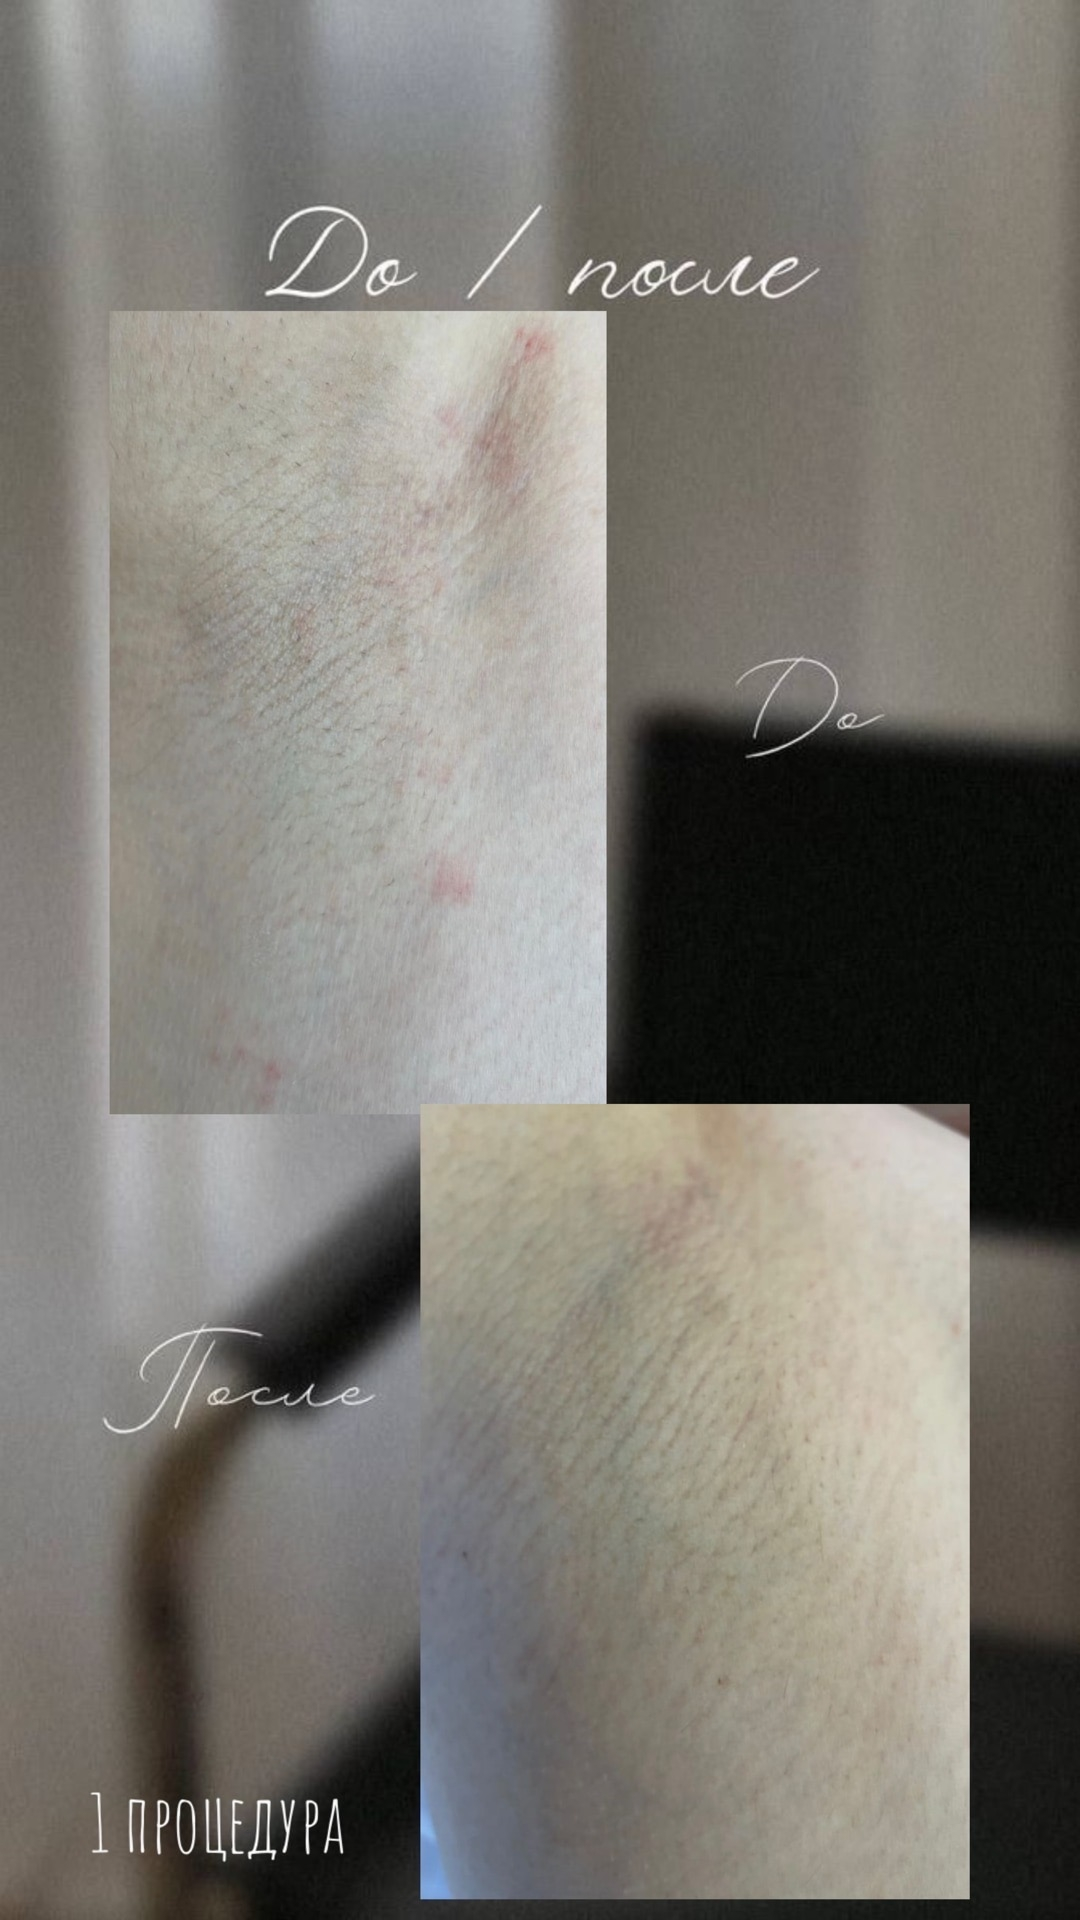
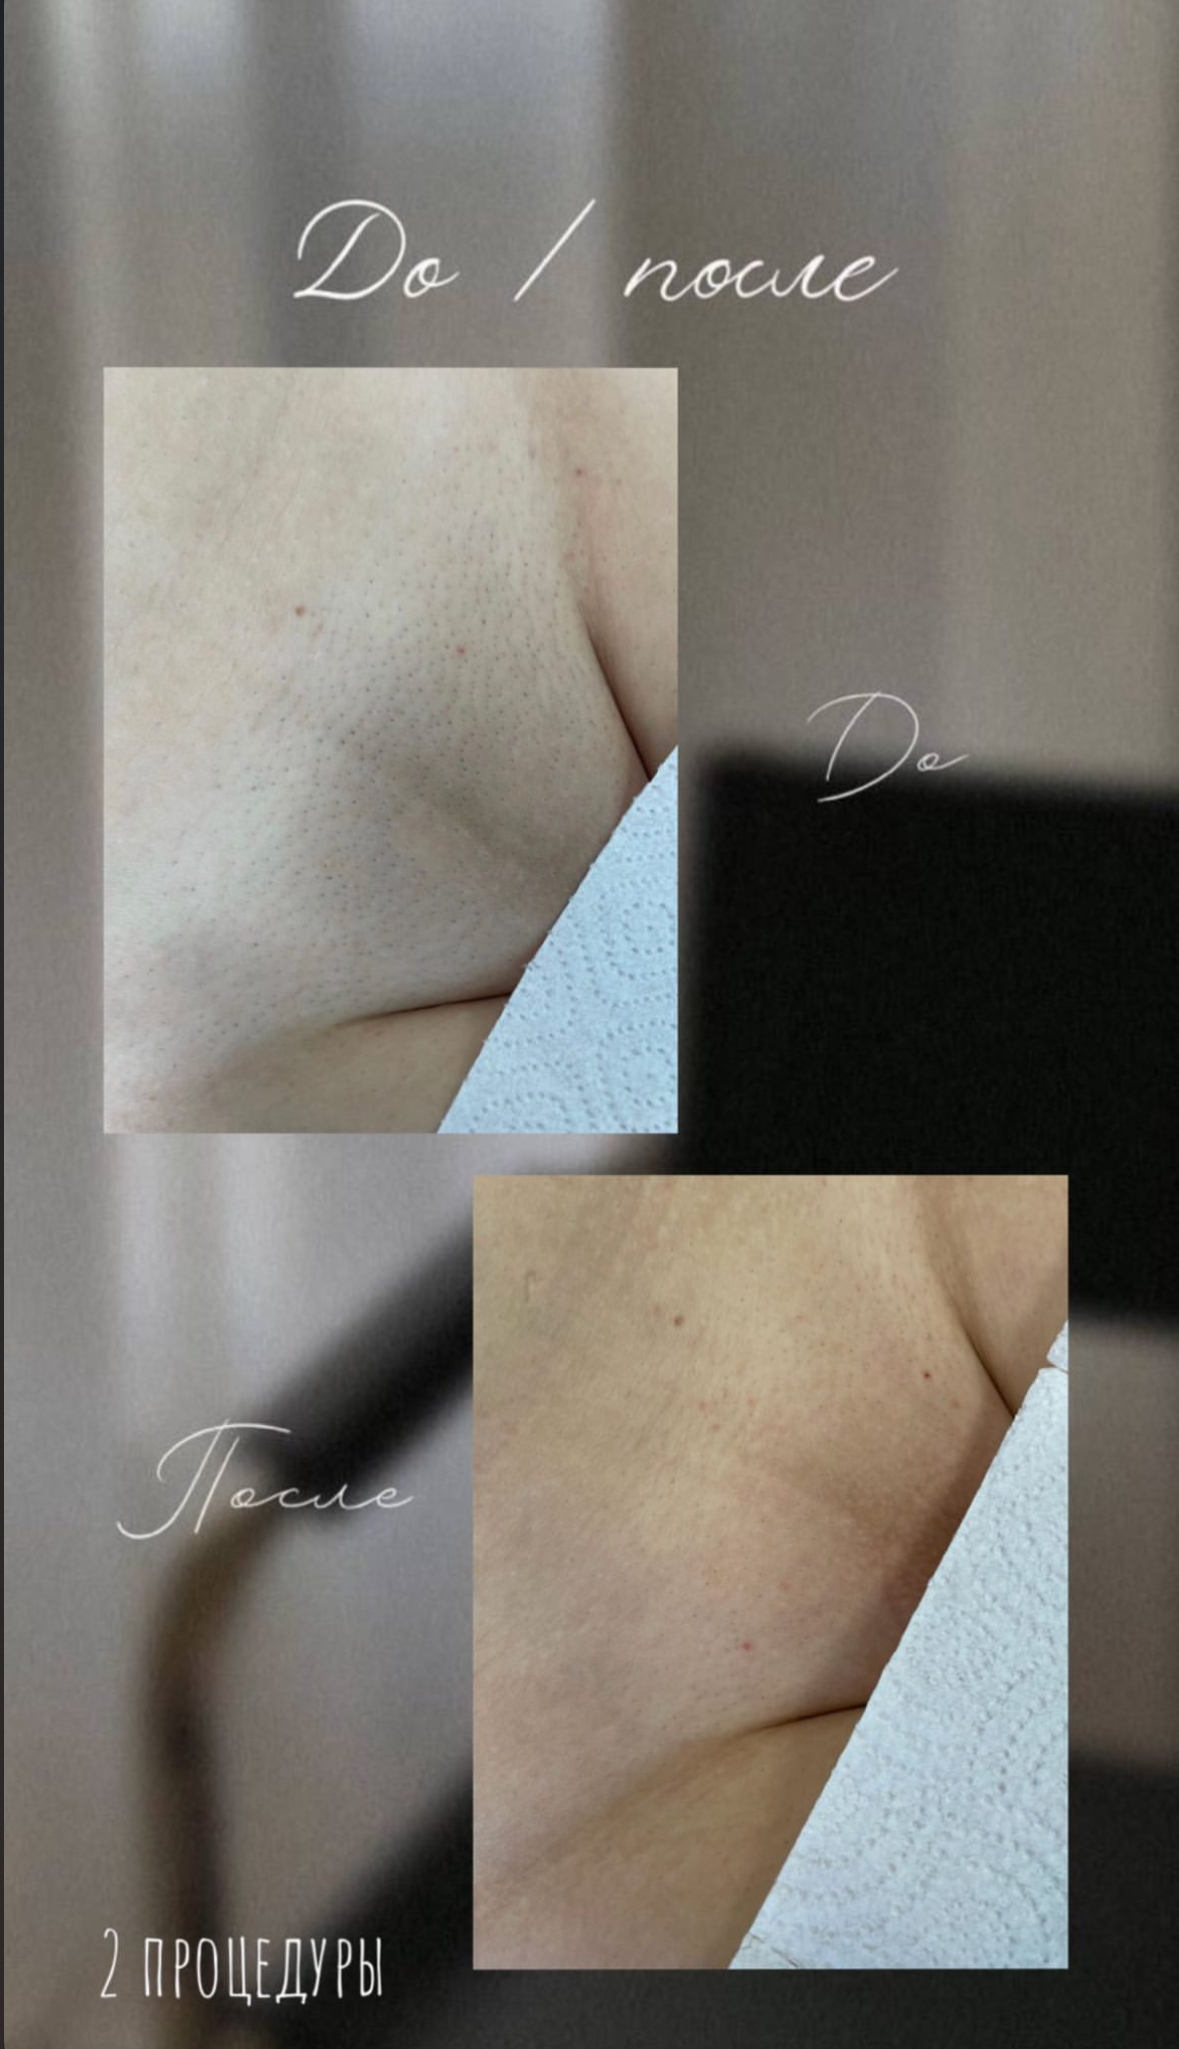
Add files via upload

diff --git a/guide.html b/guide.html
@@ -591,7 +591,7 @@
     <div class="guide-nav-wrapper">
         <div class="guide-nav">
             <a href="#intro" class="active">Введение</a>
-            <a href="#about">Обо мне</a>
+            <a href="#about">О нас</a>
             <a href="#how-it-works">Как это работает</a>
             <a href="#why-laser">Почему лазер?</a>
             <a href="#procedure">Процедура</a>
@@ -617,13 +617,13 @@
             <div class="guide-card">
                 <p>Чтобы от лазера был эффект нужно долго мучиться и проходить один курс за другим? Ничего не выйдет? Мастера, к которым ты ходила, не дают никаких гарантий, а на нулевой эффект разводят руками? Останутся ожоги?</p>
                 
-                <span class="highlight-text">Давай, я докажу, что на самом деле, лазерная эпиляция куда лучше, чем кажется!</span>
+                <span class="highlight-text">Давай, мы докажем, что на самом деле, лазерная эпиляция куда лучше, чем кажется!</span>
                 
                 <p>Правильный уход и соблюдение всего нескольких простых правил сделают лазер лучшим способом удаления волос из всех, что ты когда-либо знала!</p>
-                <p>Сомневаешься? Оставайся со мной, и я докажу – подхода эффективнее и современнее просто не существует!</p>
+                <p>Сомневаешься? Оставайся с нами, и мы докажем – подхода эффективнее и современнее просто не существует!</p>
                 
                 <div class="quote-box">
-                    А еще расскажу, на что обратить внимание, чтобы сразу распознать непрофессионального мастера.
+                    А еще расскажем, на что обратить внимание, чтобы сразу распознать непрофессионального мастера.
                 </div>
                 
                 <p><strong>Читай дальше, чтобы знать, как обезопасить себя от самых частых проблем!</strong></p>
@@ -632,7 +632,7 @@
 
         <div class="divider fade-in-section"><div class="divider-icon"></div></div>
 
-        <!-- 2. Знакомство -->
+        <!-- 2. Знакомство с командой -->
         <section id="about" class="guide-section fade-in-section">
             <div class="guide-card">
                 <h2>Знакомство</h2>
@@ -653,7 +653,7 @@
                     <li>Обучалась у лучших</li>
                     <li>Всегда чистый результат без вросших и покраснений</li>
                     <li>Ни одного плохого отзыва</li>
-                    <li>От двух работ до своей студии</li>
+                    <li>От двух работ до своих студий</li>
                 </ul>
 
                 <div class="quote-box">
@@ -663,7 +663,11 @@
                 <p>С марта 2023 года я открыла студию. А в июле я наконец уволилась с дополнительной работы, так как «сарафанное радио» начало так быстро работать не только в Твери, но и в ближайших городах, а запись была забита уже на недели вперед.</p>
                 <p>Теперь сотни девушек получают от меня идеально гладкую кожу без проблем, которые их так волновали!</p>
 
-                <p><strong>Я прошла обучение у врача, хирурга.</strong> Мой преподаватель – кандидат наук, преподающий в Национальном Лазерном Институте в США. Поэтому я знаю все о коже, современных методиках работы и способах решения твоих самых главных болей. Мои девочки получают 100% результат и видимый эффект уже после первой процедуры.</p>
+                <p><strong>Я прошла обучение у врача, хирурга.</strong> Мой преподаватель – кандидат наук, преподающий в Национальном Лазерном Институте в США. Поэтому я знаю все о коже, современных методиках работы и способах решения твоих самых главных болей.</p>
+                
+                <div class="highlight-box" style="background: var(--mint-light); border-left: 4px solid var(--mint-deep); padding: 20px 24px; border-radius: 0 12px 12px 0; margin: 24px 0; font-size: 1.05rem; color: #3d4f45;">
+                    <strong>И это не только моя заслуга!</strong> В нашей студии работает команда настоящих профессионалов. Все наши мастера имеют дипломы косметологов-эстетистов, медицинское образование и международные сертификаты. Мы гарантируем 100% результат и видимый эффект уже после первой процедуры!
+                </div>
             </div>
         </section>
 
@@ -743,13 +747,13 @@
                     Ты не должна чувствовать сильный дискомфорт!
                 </div>
 
-                <p>Я работаю на правильных, щадящих настройках мощности, поэтому максимум, что ты почувствуешь – легкое покалывание.</p>
+                <p>Мы работаем на правильных, щадящих настройках мощности, поэтому максимум, что ты почувствуешь – легкое покалывание.</p>
                 
                 <div class="styled-list">
-                    <li>В арсенале лучший современный аппарат 23 года производства, с двойной системой охлаждения.</li>
+                    <li><strong>Аппараты последнего поколения</strong> эффективны, с самой мощной системой охлаждения дают гарантированный результат.</li>
                     <li>100% эффективность – примерно 30% волос уходит уже после первого сеанса.</li>
-                    <li>Со мной не страшно. Даже девчонки, которым делали александритовую эпиляцию или лазер на высоких мощностях, кому нанесли ожоги, ходят ко мне с удовольствием!</li>
-                    <li>Имею огромный опыт работы и сертификаты международного образца.</li>
+                    <li>С нами не страшно. Даже девчонки, которым делали александритовую эпиляцию или лазер на высоких мощностях, кому нанесли ожоги, ходят к нам с удовольствием!</li>
+                    <li>Имеем огромный опыт работы и сертификаты международного образца.</li>
                 </div>
             </div>
         </section>
@@ -769,7 +773,7 @@
                     <div class="photo-item"><img src="images/otzev3.jpg" alt="Отзыв клиента"></div>
                 </div>
                 
-                <p style="text-align: center; margin-top: 30px; margin-bottom: 20px; font-weight: 600; color: var(--mint-hover);">Результаты после 1 процедуры (подмышки, бикини)</p>
+                <p style="text-align: center; margin-top: 30px; margin-bottom: 20px; font-weight: 600; color: var(--mint-hover);">Результаты (подмышки, бикини)</p>
                 
                 <!-- Галерея до/после (по центру) -->
                 <div class="results-gallery">

diff --git a/index.html b/index.html
@@ -348,18 +348,21 @@
             line-height: 1.8;
         }
 
-        /* Сетка для фото салона */
+        /* Сетка для фото салона (ВЕРТИКАЛЬНЫЕ) */
         .salon-gallery {
             display: grid;
-            grid-template-columns: 1fr 1fr;
+            grid-template-columns: 1fr 1fr; /* Две колонки */
             gap: 24px;
             margin-bottom: 40px;
+            max-width: 800px; /* Ограничили ширину, чтобы фото не были гигантскими */
+            margin-left: auto;
+            margin-right: auto;
         }
 
         .salon-photo {
             border-radius: var(--radius);
             overflow: hidden;
-            height: 400px;
+            aspect-ratio: 3 / 4; /* Задаем вертикальные пропорции (ширина / высота) */
             background: linear-gradient(135deg, var(--mint-light) 0%, var(--beige-card) 100%);
             display: flex;
             align-items: center;
@@ -602,10 +605,6 @@
                 grid-template-columns: 1fr 1fr;
                 gap: 14px;
             }
-
-            .salon-photo {
-                height: 220px;
-            }
         }
 
         /* Телефоны */
@@ -671,10 +670,6 @@
                 gap: 10px;
             }
 
-            .salon-photo {
-                height: 160px;
-            }
-
             .salon-photo::after {
                 font-size: 0.8rem;
             }
@@ -691,9 +686,6 @@
         @media (max-width: 380px) {
             .hero-image {
                 max-width: 40%;
-            }
-            .salon-photo {
-                height: 130px;
             }
         }
     </style>
@@ -772,10 +764,10 @@
             </p>
         </div>
 
-        <!-- Пара фотографий салона -->
+        <!-- Пара фотографий салона (вертикальные) -->
         <div class="salon-gallery">
             <div class="salon-photo">
-                <img src="images/foto2.jpg" alt="Фото салона 1">
+                <img src="images/foto17.jpg" alt="Фото салона 1">
             </div>
             <div class="salon-photo">
                 <img src="images/salon2.jpg" alt="Фото салона 2">
